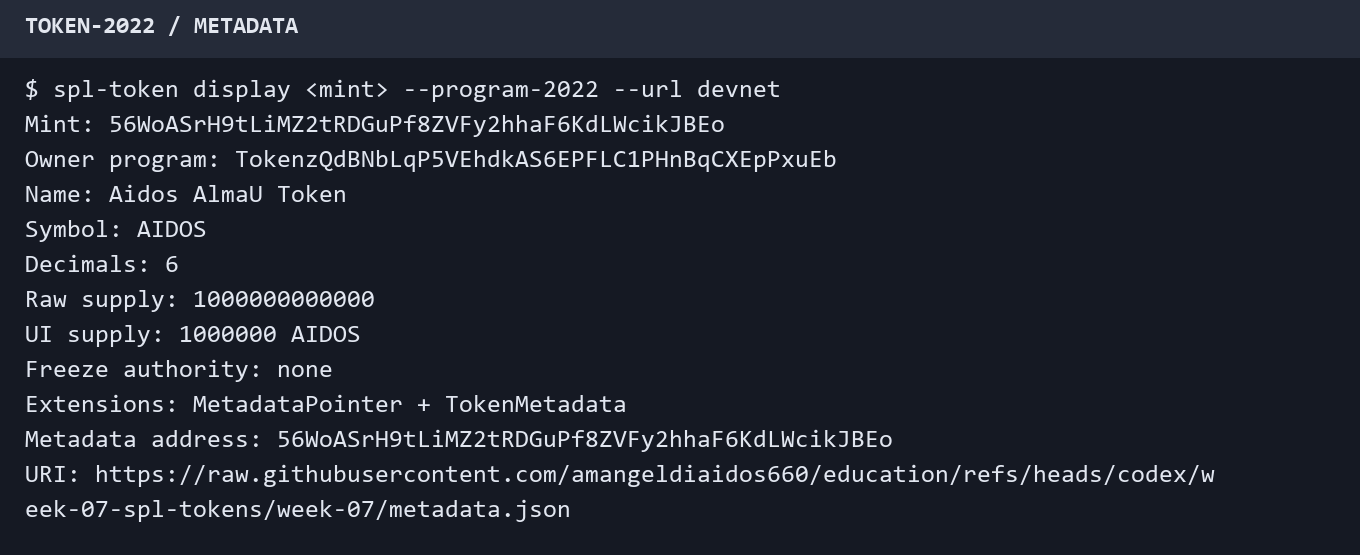
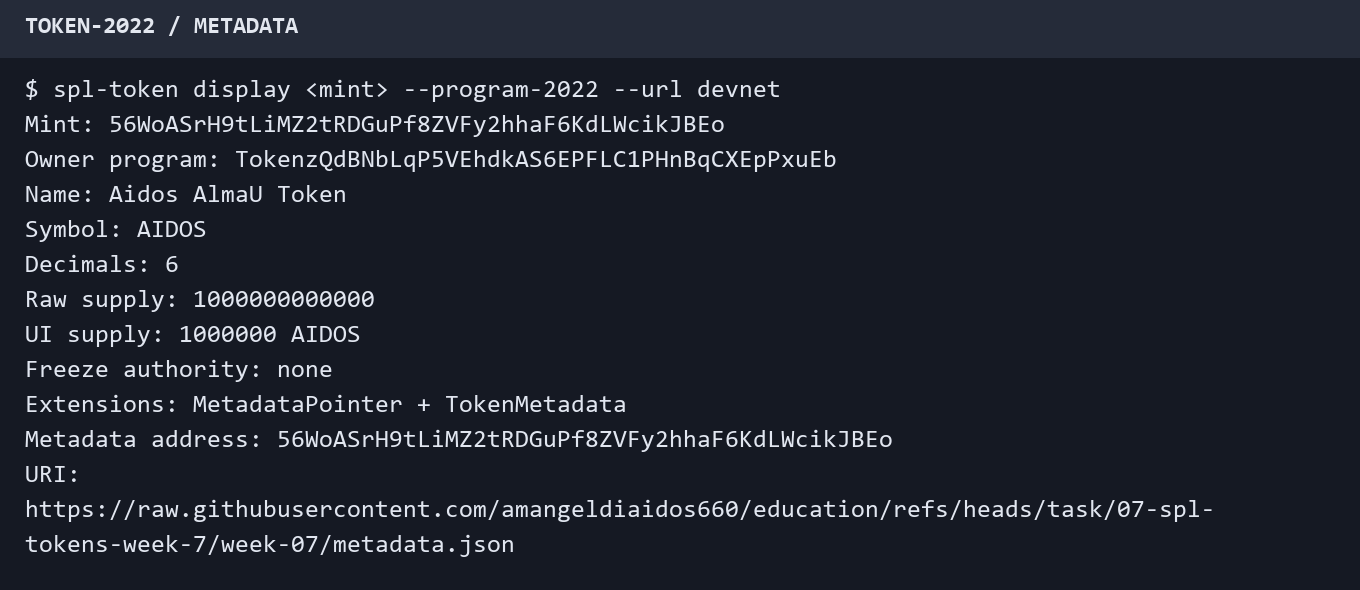
Verify metadata URI on requested task branch

Changed region(s): [[0.0, 0.1225, 0.8956, 0.9495], [0.0309, 0.0306, 0.2162, 0.0613]]

diff --git a/week-07/verify.ts b/week-07/verify.ts
@@ -20,4 +20,4 @@ assert.deepEqual(published, metadata);
 console.log(`PASS: ${result.name} (${result.symbol}), decimals=${result.decimals}`);
 console.log('PASS: MetadataPointer + TokenMetadata, mint authority and token account owners');
 console.log('PASS: supply=1000000; sender=999875; recipient=125 AIDOS');
-console.log('PASS: all 4 transactions finalized; published metadata JSON matches local file');
+console.log(`PASS: all ${Object.keys(result.transactions).length} transactions finalized; published metadata JSON matches local file`);
